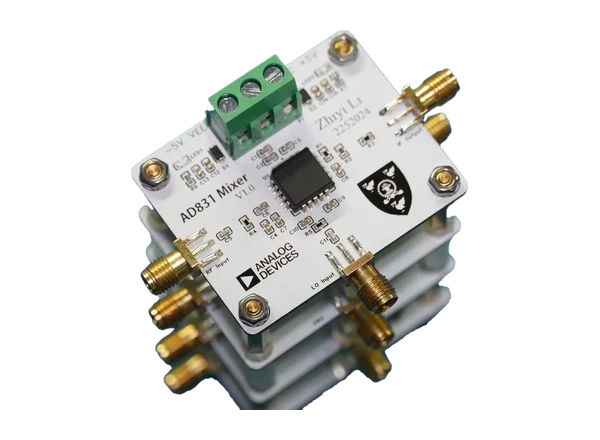
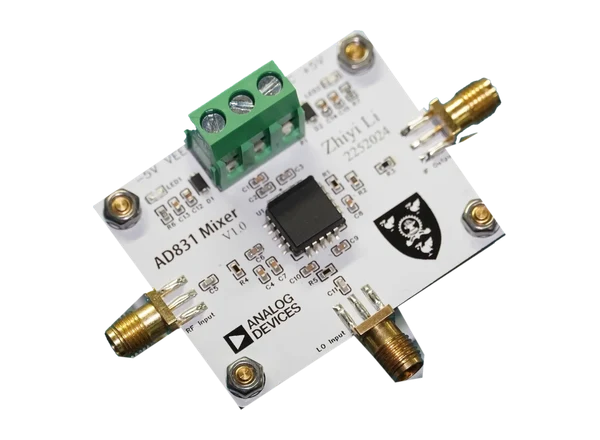
feat(hardware): show only the top AD831 board

diff --git a/README.md b/README.md
@@ -79,7 +79,7 @@ Robotic-systems hardware and embedded engineer. I work from schematic and PCB la
       <br><sub>GaN FETs + LMG1210 driver, 5 board spins</sub>
     </td>
     <td align="center" width="33%" valign="top">
-      <a href="https://www.66ccff-labs.com/work/ad831-active-mixer"><img alt="AD831 active mixer boards" src="assets/boards/ad831.webp" width="240"></a>
+      <a href="https://www.66ccff-labs.com/work/ad831-active-mixer"><img alt="AD831 active mixer board" src="assets/boards/ad831.webp" width="240"></a>
       <br><b>AD831 Active Mixer</b>
       <br><sub>120 MHz RF → 10.7 MHz IF, 4 revisions</sub>
     </td>
